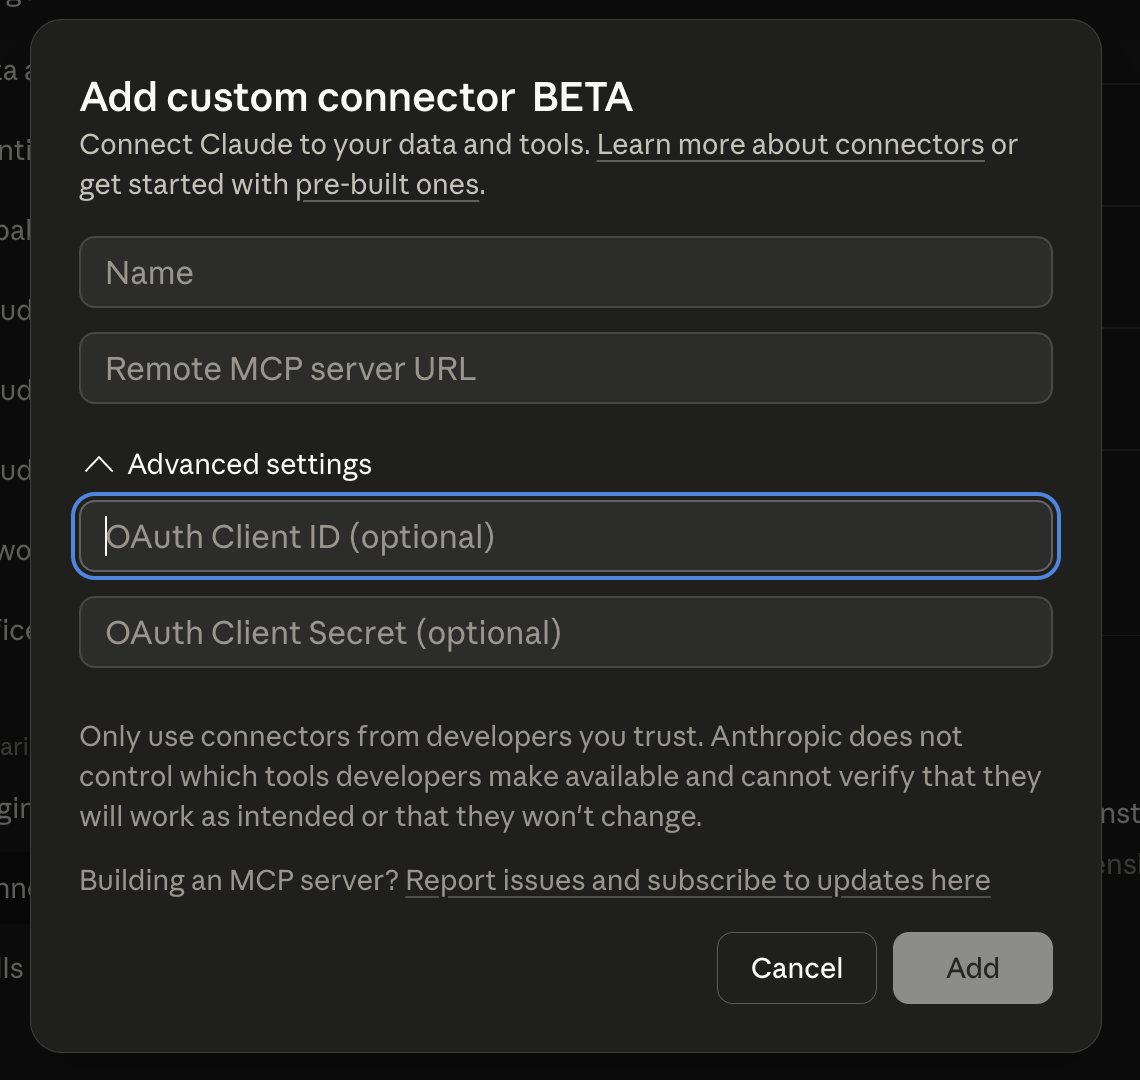
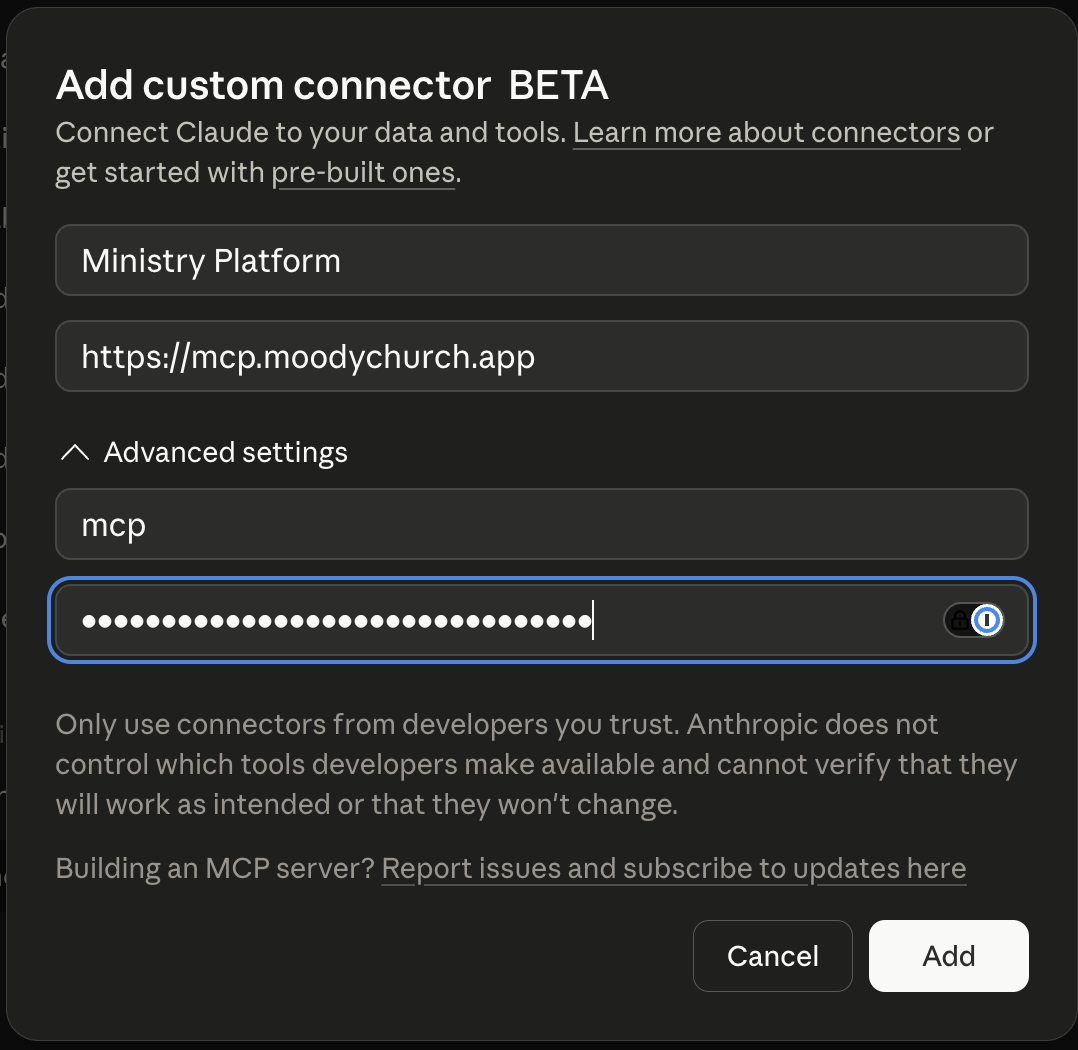
README updates: renumber Quick start 1-5, fix connector dialog, curl-based Option A, user-connect screenshot, no-writes wording
- Quick start steps renumbered from 0-4 to 1-5 (zero-indexed felt
  off for a user-facing setup guide). TOC anchors updated to match.
- Connecting Claude → step 1: OAuth Client ID and Secret are
  REQUIRED (not "leave blank") — split into two rows, each marked
  required, pointing at the same values as `OIDC_CLIENT_ID` /
  `OIDC_CLIENT_SECRET` in `.env`. Replaces docs/claude-add-connector.png
  with the updated dialog screenshot showing populated fields.
- Connecting Claude → step 2: adds docs/claude-user-connect.png
  showing the Ministry Platform connector with Connect button in
  the user's personal settings.
- Deployment Option A: drops the `cp ...example*` pattern (which
  presumed the repo was cloned) in favor of the same curl downloads
  used in Quick start. Adds a sentence noting cloning is fine but
  unnecessary.
- Features bullet on read-only: tightened to be explicit that no
  write code path exists today and flipping the allowlist's `write`
  flag doesn't enable writes by itself — adding write capability
  requires new tool implementations.

diff --git a/README.md b/README.md
@@ -6,11 +6,11 @@ Users authenticate with their own MP credentials via OIDC, so they can only see 
 
 ## Quick start (Docker)
 
-### 0. Set up the reverse proxy
+### 1. Set up the reverse proxy
 
 You'll need a public DNS hostname for Claude to reach your MCP server. Reverse-proxy that HTTPS hostname to port 3000 of your container — see [Public HTTPS](#1-set-up-public-https) for examples.
 
-### 1. Create the MP API Client
+### 2. Create the MP API Client
 
 [In MP under **Administration → API Clients**](#2-configure-oidc), create a client and set the **Redirect URIs** to:
 
@@ -20,7 +20,7 @@ You'll need a public DNS hostname for Claude to reach your MCP server. Reverse-p
 
 Note the **Client ID** and **Client Secret** for the next step.
 
-### 2. Configure and start the container
+### 3. Configure and start the container
 
 In the directory where you want the deployment to live:
 
@@ -36,22 +36,22 @@ $EDITOR .env
 docker compose up -d
 ```
 
-### 3. Add the connector in Claude's organization settings
+### 4. Add the connector in Claude's organization settings
 
 In claude.ai, go to [**Organization Settings → Connectors**](https://claude.ai/admin-settings/connectors) and click **Add custom web connector**. Set the **Remote MCP server URL** to `<PUBLIC_URL>/mcp`. See [Connecting Claude](#connecting-claude) for the screenshot and full field reference.
 
-### 4. Each user connects from their personal settings
+### 5. Each user connects from their personal settings
 
 Each staff user opens [their personal connector settings](https://claude.ai/settings/connectors), finds the Ministry Platform connector, clicks **Connect**, and signs in with their MP credentials.
 
 ## Contents
 
 - [Quick start (Docker)](#quick-start-docker)
-  - [0. Set up the reverse proxy](#0-set-up-the-reverse-proxy)
-  - [1. Create the MP API Client](#1-create-the-mp-api-client)
-  - [2. Configure and start the container](#2-configure-and-start-the-container)
-  - [3. Add the connector in Claude's organization settings](#3-add-the-connector-in-claudes-organization-settings)
-  - [4. Each user connects from their personal settings](#4-each-user-connects-from-their-personal-settings)
+  - [1. Set up the reverse proxy](#1-set-up-the-reverse-proxy)
+  - [2. Create the MP API Client](#2-create-the-mp-api-client)
+  - [3. Configure and start the container](#3-configure-and-start-the-container)
+  - [4. Add the connector in Claude's organization settings](#4-add-the-connector-in-claudes-organization-settings)
+  - [5. Each user connects from their personal settings](#5-each-user-connects-from-their-personal-settings)
 - [Features](#features)
 - [Setup](#setup)
   - [1. Set up public HTTPS](#1-set-up-public-https)
@@ -83,7 +83,7 @@ Each staff user opens [their personal connector settings](https://claude.ai/sett
 
 ## Features
 
-- **Read-only by default** — all shipped tools (domain helpers, aggregations, generic query/get) are read operations; the allowlist's per-table `write` flag is reserved for future write tools (none ship today)
+- **Read-only — no writes implemented today** — every shipped tool calls MP via `GET`. The allowlist's per-table `write` flag is informational only; flipping it to `true` doesn't enable writes (no tool consults it as a gate, and no write code path exists). Adding write capability requires new tool implementations.
 - **Per-user OIDC auth** — each user signs in with their Ministry Platform credentials
 - **Table allowlist** — configurable cap on which tables are exposed, independent of MP security roles
 - **Concurrency limiting** — respects MP's connection limits
@@ -225,14 +225,18 @@ Tables not listed are blocked entirely, regardless of the user's MP security rol
 
 ### Option A: Docker (recommended)
 
-```bash
-# Copy and configure
-cp docker-compose.example.yml docker-compose.yml
-cp .env.example .env
-cp config/table-access.example.json config/table-access.json
+You don't need to clone the repository — the image is pulled from GHCR. (Cloning the repo is fine if you want to keep the source handy or build locally; it's just not required.) In the directory where you want the deployment to live:
 
-# Edit .env with your credentials and settings
-# Edit config/table-access.json with your table allowlist
+```bash
+curl -fsSL https://raw.githubusercontent.com/The-Moody-Church/mp-mcp/main/docker-compose.example.yml -o docker-compose.yml
+curl -fsSL https://raw.githubusercontent.com/The-Moody-Church/mp-mcp/main/.env.example -o .env
+mkdir -p config && curl -fsSL https://raw.githubusercontent.com/The-Moody-Church/mp-mcp/main/config/table-access.example.json -o config/table-access.json
+
+# Edit .env with your credentials (MP_BASE_URL, OIDC_CLIENT_ID, OIDC_CLIENT_SECRET, PUBLIC_URL):
+$EDITOR .env
+
+# Optionally trim config/table-access.json to just the tables you need:
+$EDITOR config/table-access.json
 
 # Run
 docker compose up -d
@@ -343,13 +347,18 @@ Go to [**Organization Settings → Connectors**](https://claude.ai/admin-setting
 |---|---|
 | **Name** | Anything readable, e.g., `Ministry Platform` |
 | **Remote MCP server URL** | `<PUBLIC_URL>/mcp` — for TMC: `https://mcp.moodychurch.app/mcp` |
-| **OAuth Client ID / Secret** (Advanced settings) | Leave blank — Claude registers dynamically with mp-mcp via the MCP auth protocol |
+| **OAuth Client ID** (Advanced settings, **required**) | The same value as `OIDC_CLIENT_ID` in your `.env` — your MP API Client's Client ID (e.g., `mcp`) |
+| **OAuth Client Secret** (Advanced settings, **required**) | The same value as `OIDC_CLIENT_SECRET` in your `.env` — your MP API Client's Client Secret |
 
 This makes the Ministry Platform connector available to everyone in the org. It does not sign anyone in.
 
 ### 2. Each user enables and signs in
 
-Each staff user opens [their personal connector settings](https://claude.ai/settings/connectors), finds the Ministry Platform connector in the list, and clicks **Connect**. That opens MP's standard sign-in page in a browser; after a successful login they're returned to Claude, and the connector's settings page now shows it as **Connected** along with the list of available tools.
+Each staff user opens [their personal connector settings](https://claude.ai/settings/connectors), finds the Ministry Platform connector in the list, and clicks **Connect**:
+
+![Ministry Platform connector listed in personal connector settings with a Connect button](docs/claude-user-connect.png)
+
+That opens MP's standard sign-in page in a browser; after a successful login they're returned to Claude, and the connector's settings page now shows it as **Connected** along with the list of available tools.
 
 Each user signs in with their own MP credentials, so the data they see through Claude matches what their MP security role already permits in the MP web UI.
 
